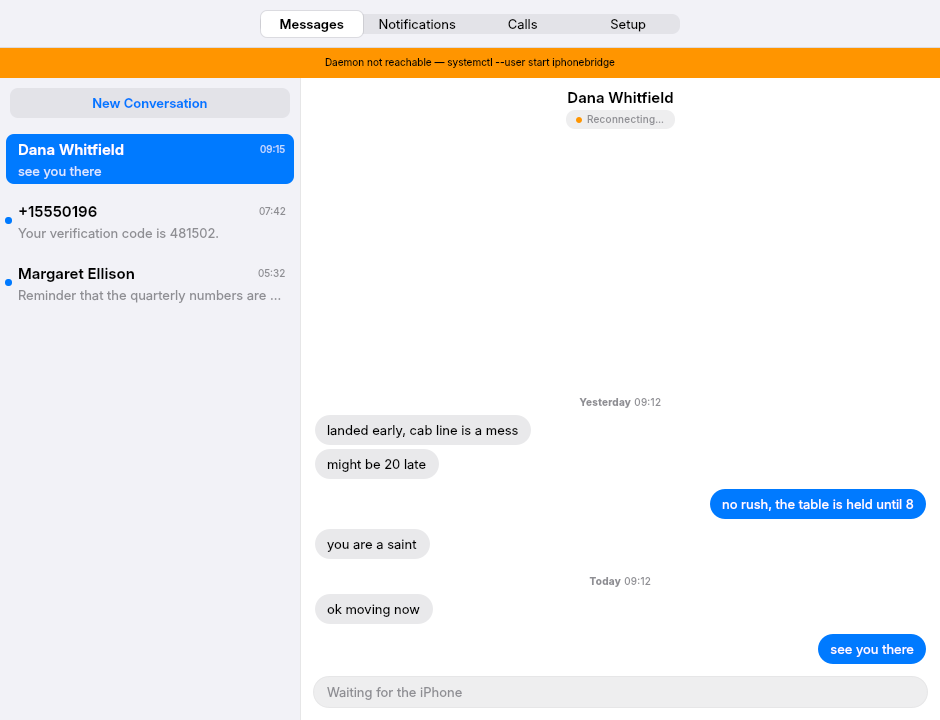
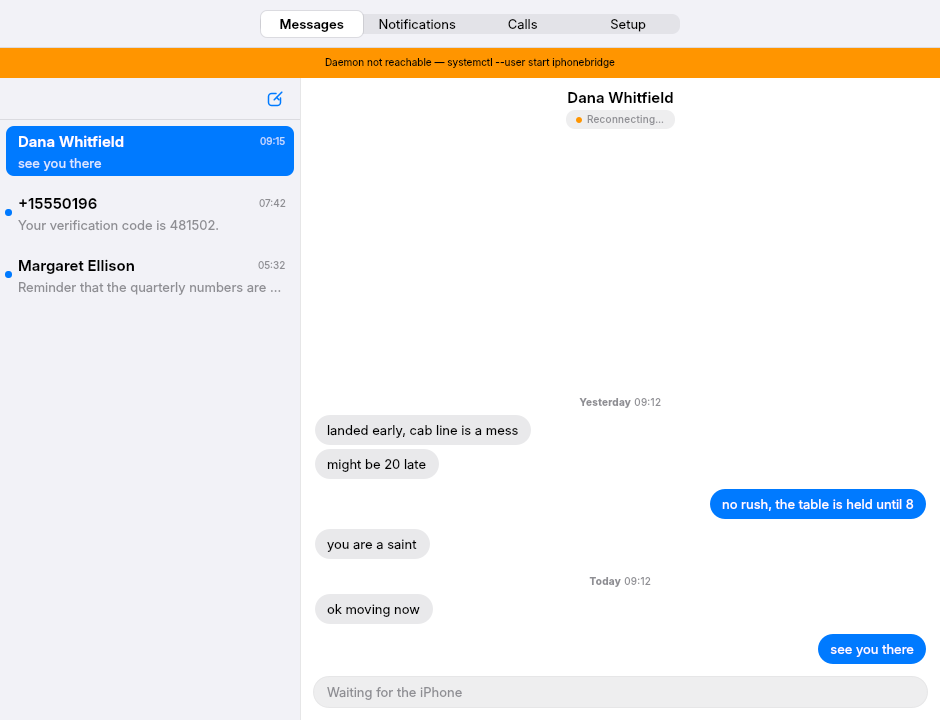
Add compose mark

Changed region(s): [[0.0, 0.1222, 0.3085, 0.3361], [0.0, 0.3667, 0.3085, 0.4278]]

diff --git a/src/iphonebridge/ui/qml/Main.qml b/src/iphonebridge/ui/qml/Main.qml
@@ -250,36 +250,50 @@ ApplicationWindow {
                     anchors.fill: parent
                     spacing: 0
 
-                    // Over the conversation list, where a new conversation
-                    // is plainly what it starts.
-                    Button {
-                        id: newBtn
-                        objectName: "newConversation"
+                    // Top of the sidebar, aligned right, icon only —
+                    // where Messages puts it. The name it lost lives in
+                    // the tooltip and in Accessible.name, so hovering or
+                    // a screen reader still says what it does.
+                    Item {
                         Layout.fillWidth: true
-                        Layout.margins: 10
-                        implicitHeight: 30
-                        onClicked: {
-                            bridge.clearCompose()
-                            composing = true
-                            toField.text = ""
-                            toField.forceActiveFocus()
+                        implicitHeight: 42
+
+                        Button {
+                            id: newBtn
+                            objectName: "newConversation"
+                            anchors.right: parent.right
+                            anchors.rightMargin: 10
+                            anchors.verticalCenter: parent.verticalCenter
+                            implicitWidth: 30
+                            implicitHeight: 30
+                            Accessible.name: "New conversation"
+                            ToolTip.visible: hovered
+                            ToolTip.delay: 500
+                            ToolTip.text: "New conversation"
+                            onClicked: {
+                                bridge.clearCompose()
+                                composing = true
+                                toField.text = ""
+                                toField.forceActiveFocus()
+                            }
+                            background: Rectangle {
+                                radius: 7
+                                color: newBtn.down ? theme.selected
+                                     : newBtn.hovered ? theme.fill
+                                     : "transparent"
+                            }
+                            contentItem: Item {
+                                ComposeMark {
+                                    anchors.centerIn: parent
+                                    color: theme.accent
+                                }
+                            }
                         }
-                        // Tinted, not filled. Blue is the selected
-                        // conversation and your own words; spending it on
-                        // a permanent button as well leaves nothing for
-                        // those to mean.
-                        background: Rectangle {
-                            radius: 8
-                            color: newBtn.down ? theme.selected : theme.fill
-                        }
-                        contentItem: Text {
-                            text: "New Conversation"
-                            color: theme.accent
-                            font.family: theme.ui
-                            font.pixelSize: theme.rowSize
-                            font.weight: Font.DemiBold
-                            horizontalAlignment: Text.AlignHCenter
-                            verticalAlignment: Text.AlignVCenter
+
+                        Rectangle {
+                            anchors.bottom: parent.bottom
+                            width: parent.width; height: 1
+                            color: theme.separator
                         }
                     }
 

diff --git a/src/iphonebridge/ui/qml/ComposeMark.qml b/src/iphonebridge/ui/qml/ComposeMark.qml
@@ -1,0 +1,57 @@
+import QtQuick
+
+// The compose mark: a sheet with its top-right corner open and a pencil
+// crossing it. Drawn rather than themed or shipped, for three reasons.
+//
+// A themed icon (icon.name: "document-edit-symbolic") resolves to whatever
+// the desktop draws — Breeze here, Adwaita on GNOME — so the one element
+// meant to read as Messages would read as the desktop instead. Shipping an
+// SVG fixes that but adds a file to keep in step with the palette. And the
+// glyph this echoes, SF Symbols' square.and.pencil, is licensed for Apple's
+// platforms and cannot be redistributed, so it is redrawn from the generic
+// compose mark rather than traced.
+//
+// Twelve strokes of Canvas tint with the theme and stay identical
+// everywhere.
+Canvas {
+    id: mark
+    property color color: "black"
+    implicitWidth: 18
+    implicitHeight: 18
+    onColorChanged: requestPaint()
+
+    onPaint: {
+        var c = getContext("2d")
+        c.reset()
+        c.strokeStyle = mark.color
+        c.lineWidth = 1.5
+        c.lineCap = "round"
+        c.lineJoin = "round"
+
+        var x0 = 2.5, y0 = 3.5, x1 = 14.5, y1 = 15.5, r = 3
+
+        // The sheet, left open where the pencil crosses it.
+        c.beginPath()
+        c.moveTo(x1 - 4.5, y0)
+        c.lineTo(x0 + r, y0)
+        c.arcTo(x0, y0, x0, y0 + r, r)
+        c.lineTo(x0, y1 - r)
+        c.arcTo(x0, y1, x0 + r, y1, r)
+        c.lineTo(x1 - r, y1)
+        c.arcTo(x1, y1, x1, y1 - r, r)
+        c.lineTo(x1, y0 + 4.5)
+        c.stroke()
+
+        // The pencil: shaft, then the ferrule that stops it reading as a
+        // bare diagonal.
+        c.beginPath()
+        c.moveTo(8.2, 9.8)
+        c.lineTo(15.8, 2.2)
+        c.stroke()
+
+        c.beginPath()
+        c.moveTo(10.6, 7.4)
+        c.lineTo(13.0, 9.8)
+        c.stroke()
+    }
+}
